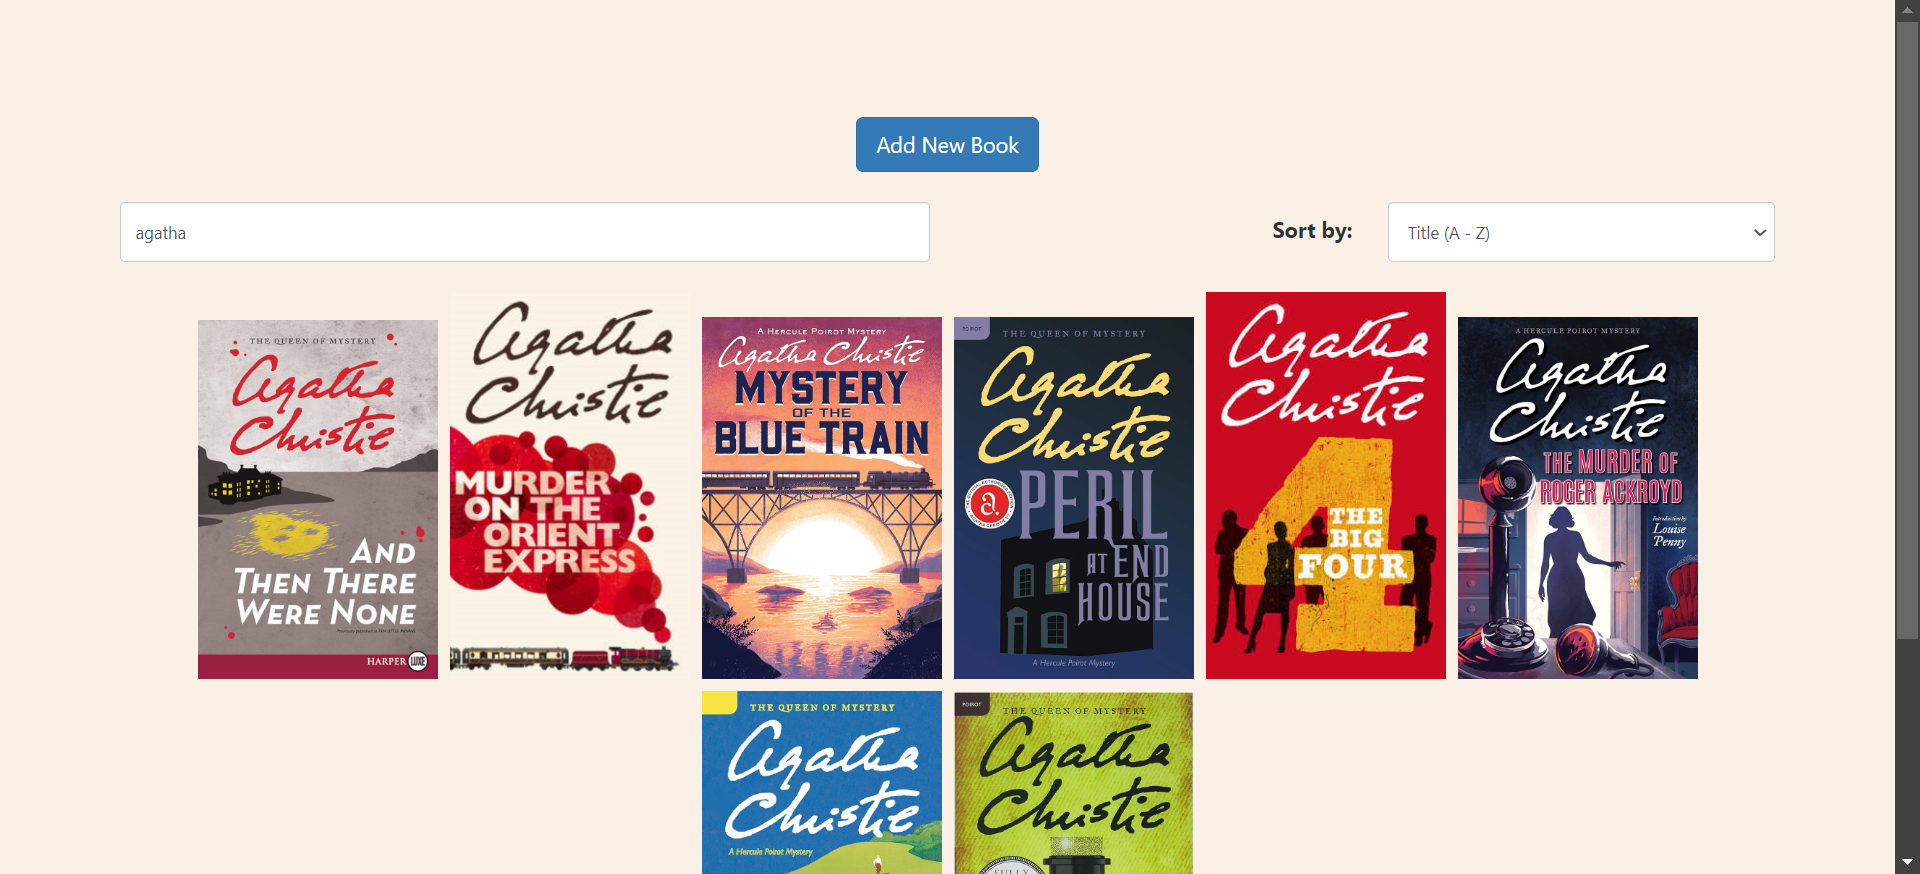
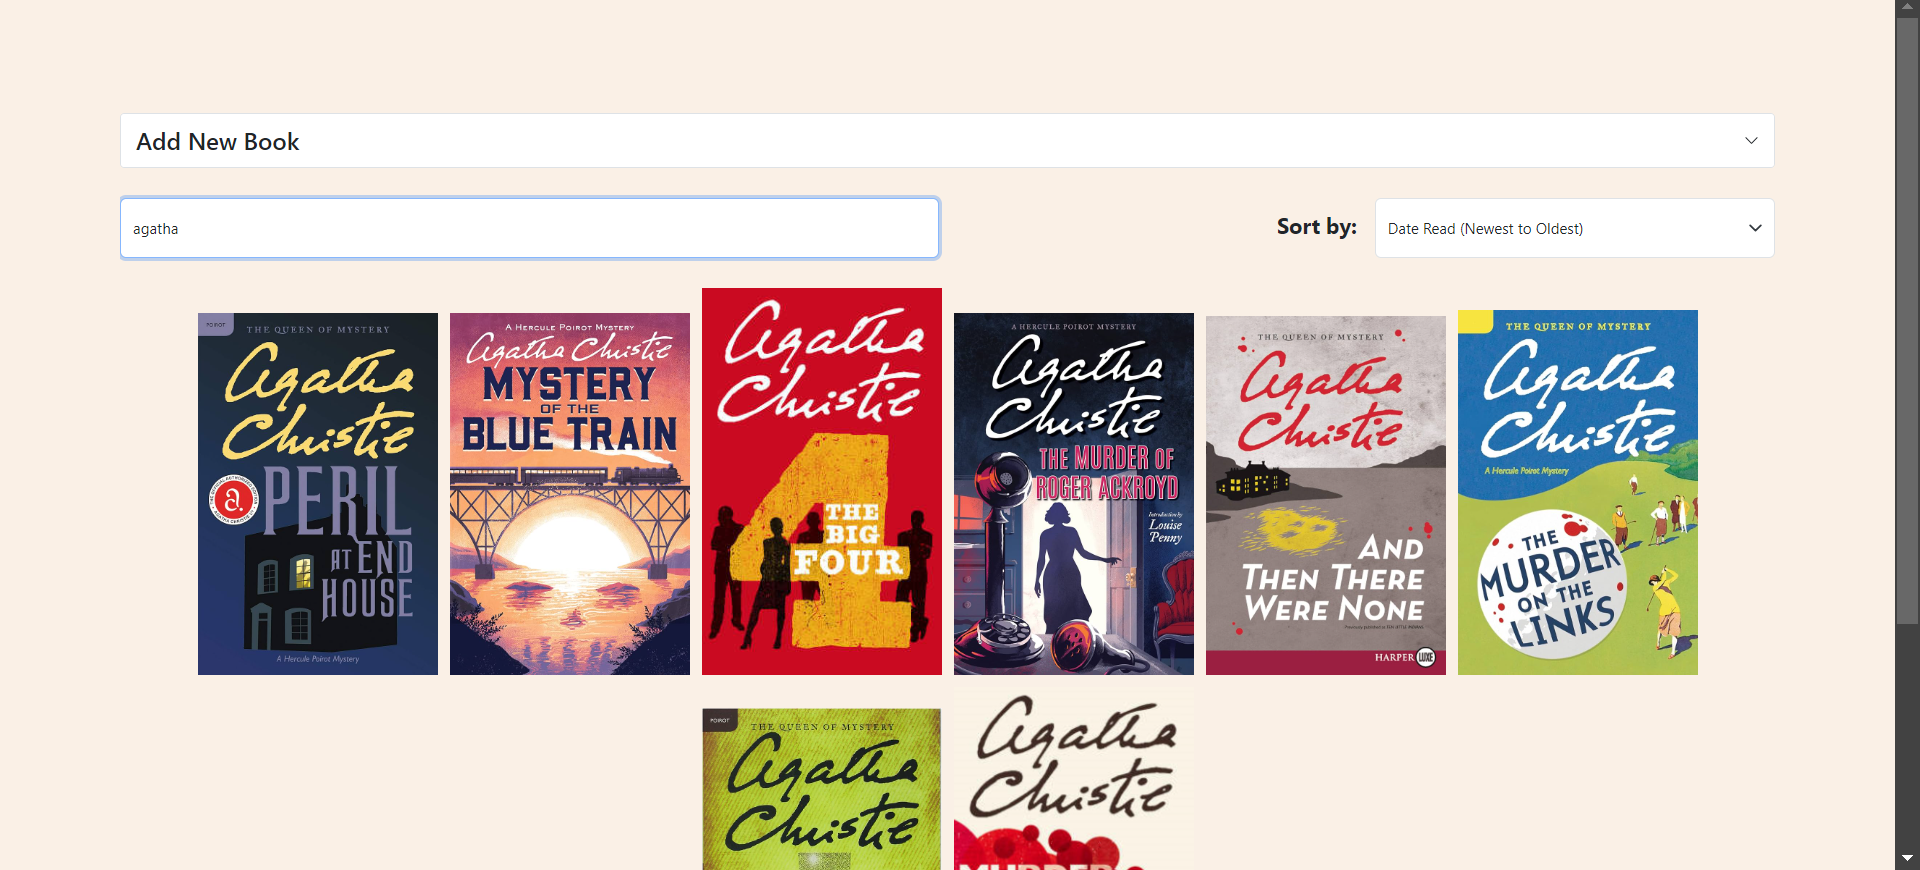
doc: update README with new features

diff --git a/README.md b/README.md
@@ -10,10 +10,15 @@ This project is a web-based collage of books I've read. A modal is displayed whe
 ![Book Modal](demo2.png)
 *Book Modal*
 
-New books can be added directly on the web interface. A search filter allows for filtering on author and title. Sorting is also available based on date read, author name, and title.
+New books can be added directly on the web interface. Data can either be manually added, or can be pulled from the Google Books API through a search on the title. Clicking the "Search" button performs an API call to search for books based on what is entered in the "Title" field. A modal is then shown, displaying a list of books retrieved from the API. Clicking on a book will populate the form fields with the data for the selected book. 
 
-![Form Modal](demo3.png)
-*Form Modal*
+![Form Panel](demo3.png)
+*Form Panel*
+
+![Modal of Retrieved Books](demo6.png)
+*Modal of Retrieved Books*
+
+A search filter allows for filtering on author and title. Sorting is also available based on date read, author name, and title.
 
 ![Searching](demo4.png)
 *Searching*
@@ -29,6 +34,7 @@ Data is stored in a Microsoft Excel document.
 ![JavaScript](https://img.shields.io/badge/javascript-%23323330.svg?style=for-the-badge&logo=javascript&logoColor=%23F7DF1E)
 ![HTML5](https://img.shields.io/badge/html5-%23E34F26.svg?style=for-the-badge&logo=html5&logoColor=white)
 ![CSS3](https://img.shields.io/badge/css3-%231572B6.svg?style=for-the-badge&logo=css3&logoColor=white)
+![Bootstrap](https://img.shields.io/badge/Bootstrap-563D7C?style=for-the-badge&logo=bootstrap&logoColor=white)
 
 ## Getting Started
 
@@ -47,6 +53,15 @@ git clone https://github.com/alicia4550/book-gallery.git
 2. Navigate to the project's root directory.
 
 3. Run the `install.bat` file.
+
+4. Create an API key using the following instructions: [Using the Google Books API](https://developers.google.com/books/docs/v1/using).
+
+5. Navigate to the `client` directory.
+
+6. Create a file `api.js` and insert the following line, inserting the API key in the quotes:
+```
+export const apiKey = "{INSERT API KEY HERE}";
+```
 
 ### Usage
 
